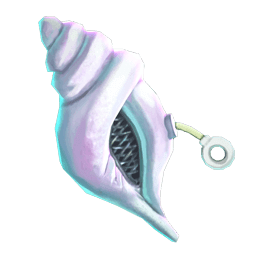
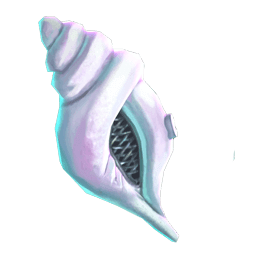
Added pullable conch string

Changed region(s): [[0.6875, 0.4688, 0.9375, 0.6875]]

diff --git a/src/js/script.js b/src/js/script.js
@@ -84,34 +84,60 @@ const characters = {
     character.addEventListener("click", selectCharacter)
   );
   
-  // Add event listener to the submit button
-  const sumbitButton = document.getElementById("ask-btn");
-  sumbitButton.addEventListener("click", showMessage);
+//   // Add event listener to the submit button
+//   const sumbitButton = document.getElementById("ask-btn");
+//   sumbitButton.addEventListener("click", showMessage);
+
+const handle = document.querySelector('.handle');
+        const cord = document.querySelector('.cord');
+        const container = document.querySelector('.ripcord-container');
+
+        let isCordPulled = false;
+
+        function customFunction() {
+            console.log('Custom function called');
+        }
+
+        handle.addEventListener('click', () => {
+            if (!isCordPulled) {
+                isCordPulled = true;
+                cord.style.height = '100px';
+                container.style.transform = 'translateY(-100px)';
+                setTimeout(() => {
+                    cord.style.height = '0';
+                    container.style.transform = 'translateY(0)';
+                    if (isCordPulled) {
+                        isCordPulled = false;
+                        // Display the message in a designated area
+                        const messageElement = document.getElementById("response");
+                        messageElement.textContent = "";
+                        showMessage(); // Call the custom function
+                    }
+                }, 1000 + Math.random() * 1000); // Time in milliseconds for the delay, adjust as needed
+            }
+        });
   
   // Function to show the message based on the selected character and question
   function showMessage() {
     const selectedCharacter = document.querySelector(".character.selected").id;
   
     // Check if the question box has a question
+    const messageElement = document.getElementById("response");
     const questionBox = document.getElementById("question");
     if (questionBox.value.trim() === "") {
-      alert("Please enter a question.");
+        messageElement.textContent = "Ask a question, please.";
       return;
     }
   
     const characterData = characters[selectedCharacter];
     const randomIndex = Math.floor(Math.random() * characterData.messages.length);
     const randomMessage = characterData.messages[randomIndex];
-  
-    // Display the message in a designated area
-    const messageElement = document.getElementById("response");
-    messageElement.textContent = "Thinking...";
-  
-    // Set a timeout to play the sound effect and display the message
-    messageTimeout = setTimeout(() => {
-      characterData.soundEffect.play();
-      messageElement.textContent = randomMessage;
-    }, 1000 + Math.random() * 1000);
+    
+    
+    
+
+    characterData.soundEffect.play();
+    messageElement.textContent = randomMessage;
   }
   
   // Function to handle character selection

diff --git a/index.html b/index.html
@@ -10,9 +10,6 @@
     <body>
         <div class="container">
             <h1>Ask The Magic Conch Shell</h1>
-            <div class="conch">
-                <img src="./assets/mcs.png" alt="Conch">
-            </div>
             <div class="characters">
                 <img class="character selected" id="spongebob" src="./assets/spongebob.png" alt="Spongebob">
                 <img class="character" id="squidward" src="./assets/squidward.png" alt="Squidward">
@@ -21,10 +18,24 @@
             <div class ="question-area">
                 <label for="question">Ask the Magic Conch anything...</label>
                 <input type="text" id="question" name="question" placeholder="Enter your question...">
-                <button id="ask-btn">Ask</button>
             </div>
+            <div class="magic-conch">
+                
+            
+                <img src="./assets/mcs.png" alt="Conch">
+                    <div class="rotator-container">
+                        <div class="ripcord-container">
+                            <div class="cord"></div>
+                            <div class="handle">
+                                <div class="handle-inner"></div>
+                            </div>
+                        </div>
+                    </div>
+                </img>
+            </div>
+
             <div class="reponse-area">
-                <p id="response"></p>
+                <p id="response">...</p>
             </div>
         </div>
         <script src="./src/js/script.js"></script>

diff --git a/src/css/style.css b/src/css/style.css
@@ -31,6 +31,7 @@ h1 {
 
 .magic-conch{
     margin-bottom: 20px;
+    position: relative;
 }
 
 .magic-conch img {
@@ -92,4 +93,47 @@ h1 {
 .character.selected {
     border: 3px solid #f7b948;
     border-radius: 5px;
+}
+
+.rotator-container{
+    position: absolute;
+    top: 48%; /* Custom position: Adjust these values as needed */
+    left: 57%; /* Custom position: Adjust these values as needed */
+    transform: translate(-50%, -50%) rotate(90deg);
+}
+
+
+.ripcord-container {
+    position: relative;
+    transition: transform 0.5s;
+}
+
+.handle {
+    position: relative;
+    width: 30px;
+    height: 30px;
+    background-color: rgb(136, 55, 190);
+    border-radius: 50%;
+    cursor: pointer;
+}
+
+.handle-inner {
+    position: absolute;
+    top: 50%;
+    left: 50%;
+    width: 15px;
+    height: 15px;
+    background-color: #f0f0f0;
+    border-radius: 50%;
+    transform: translate(-50%, -50%);
+}
+
+.cord {
+    position: absolute;
+    top: 20px;
+    left: 15px; /* Adjusted to center the cord */
+    width: 5px;
+    height: 0;
+    background-color: rgb(149, 149, 112);
+    transition: height 0.5s;
 }
